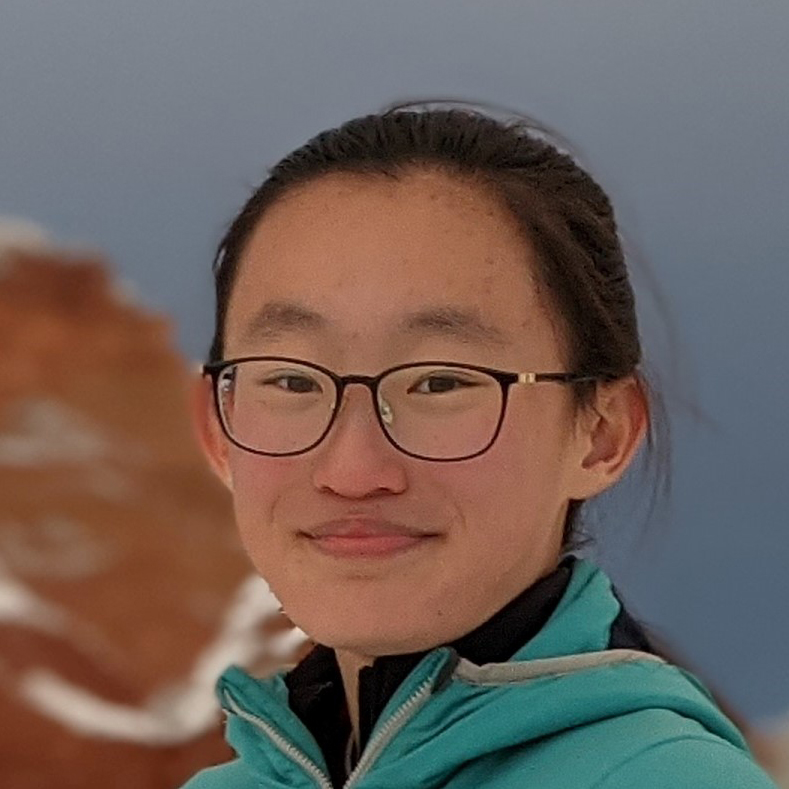
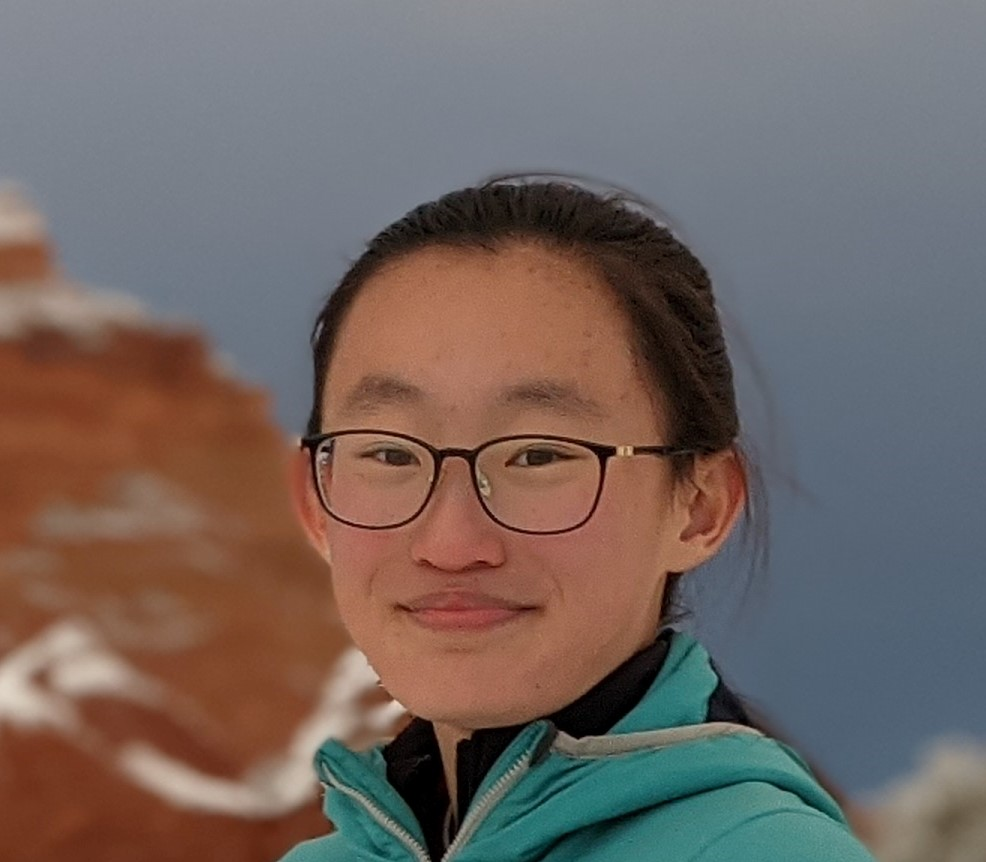
Updated data and images from award winners
Update the names, bios, and images from all categories.

Commented out sections that are not used this year.

diff --git a/index.html b/index.html
@@ -320,13 +320,14 @@
 		</section>	<!-- team -->
 
 
-		<!-- Diversity AP -->
+		<!--
+		<-- Diversity AP ->
 		<section>
 			<div class="container">
                 <div class="row text-center">
                     <div class="col-md-10 col-md-offset-1 metadata">
                         <a data-toggle="collapse" href="#educatorDiversityAPContainer">
-                            <h1 class="section-title metadata">2021 AP CS Female Diversity Awards</h1>
+                            <h1 class="section-title metadata">{{year}} AP CS Female Diversity Awards</h1>
                         </a>
                         <hr class="full">
                         <br/>
@@ -336,15 +337,16 @@
                 <div class="collapse in" id="educatorDiversityAPContainer">
                 </div>
 
-			</div>	<!-- container -->
-		</section>	<!-- team -->
+			</div>	<-- container ->
+		</section>	<-- team ->
+	    -->
 
 
 
 
 
-
-		<!-- National Winners -->
+		<!-- 
+		<--National Winners ->
 	    <section id="nationalWinners">
 	    	<div class="container">
 		    	<div class="team-members">
@@ -359,14 +361,18 @@
 		        		</div>
 		    		</div>
 
-                    <div class="collapse in" id="nationalWinnersContainer">  <!-- from nationalWinners.csv -->
+                    <div class="collapse in" id="nationalWinnersContainer">  <-- from nationalWinners.csv ->
                     </div>
 
-			    </div>	<!-- team-members -->
-			</div>	<!-- container -->
-	    </section>	<!-- team -->
+			    </div>	<-- team-members ->
+			</div>	<-- container ->
+	    </section>	<-- team ->
+		-->
 
 
+
+
+		
 		<!-- National Honorable Mentions -->
 	    <section id="nationalHonorableMentions">
 	    	<div class="container">
